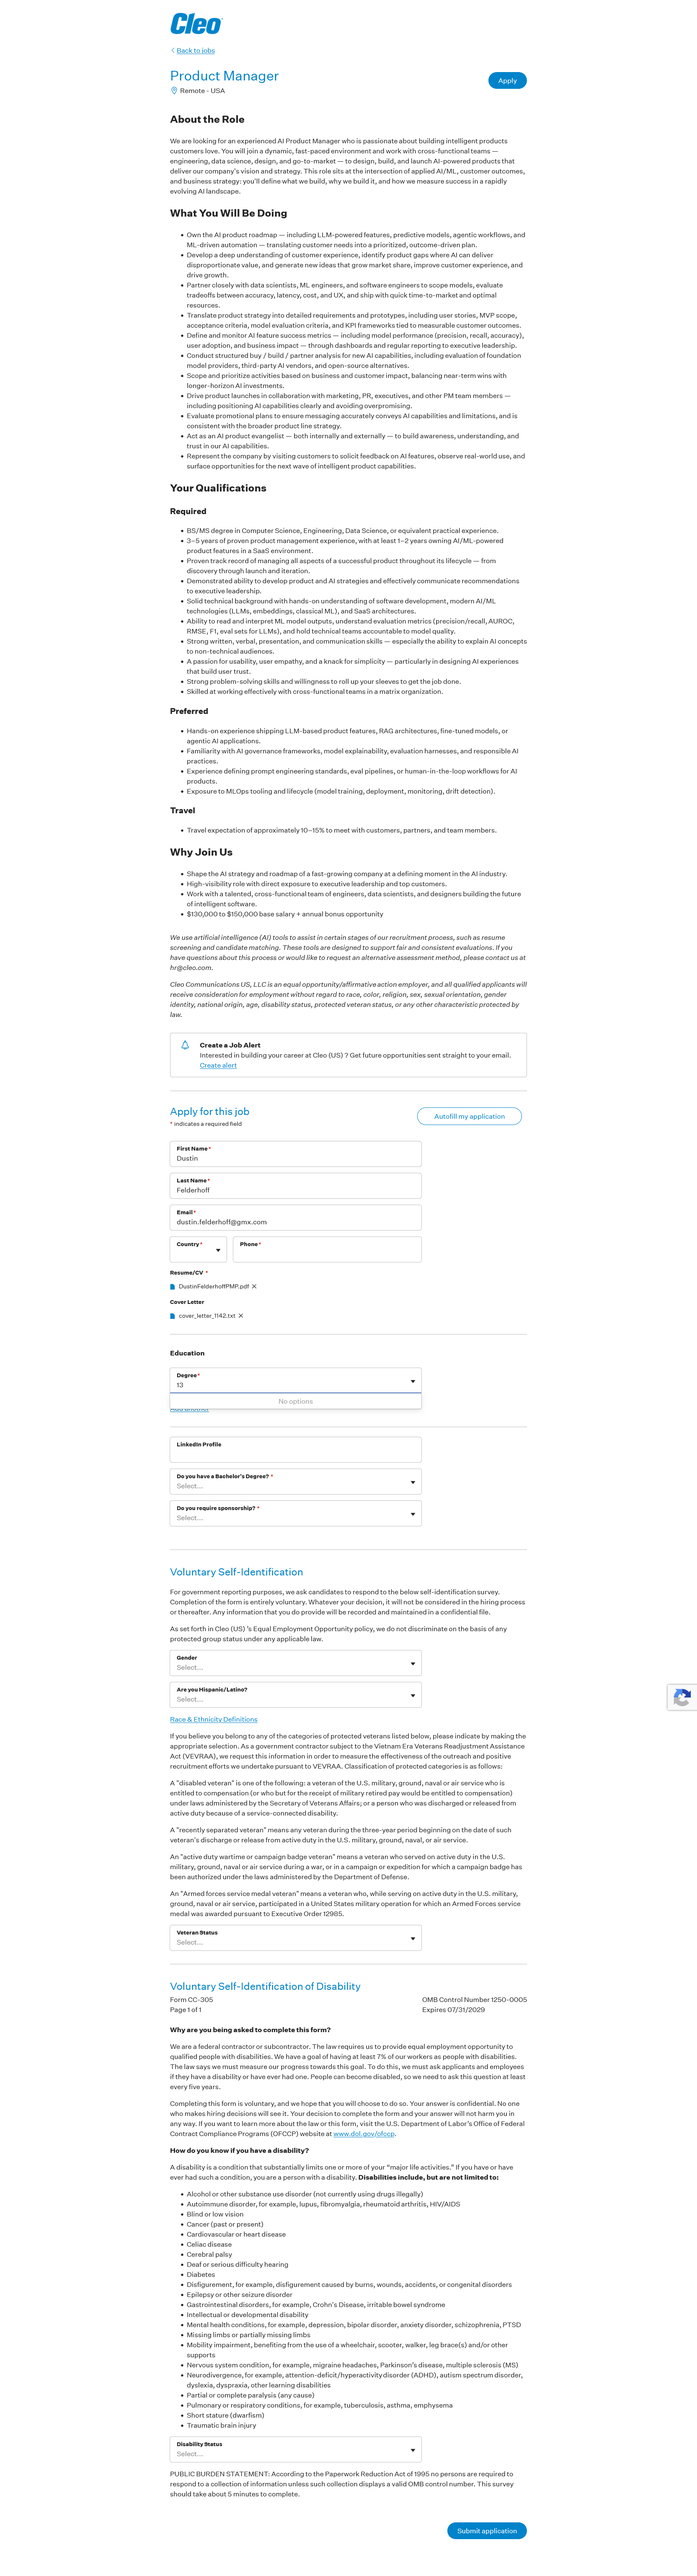
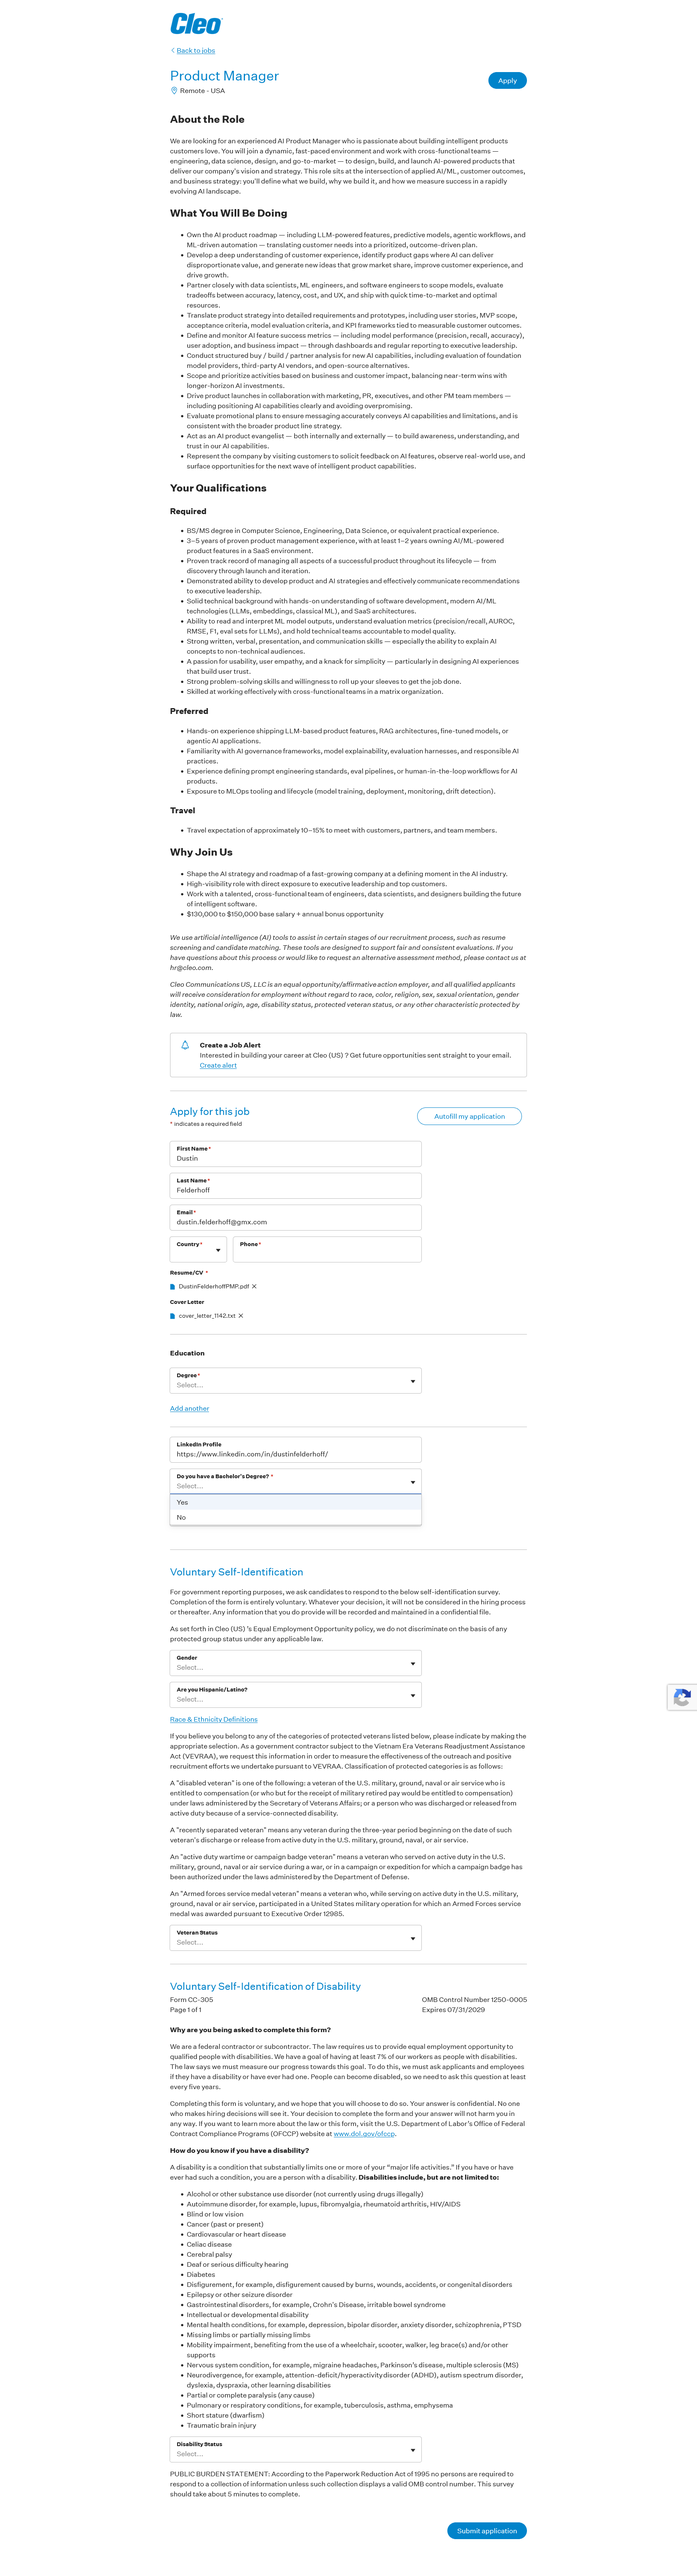
update dashboard

diff --git a/apply/job-dashboard.html b/apply/job-dashboard.html
@@ -68,7 +68,7 @@ a:hover{text-decoration:underline}
 <div id="dashboard" style="display:none">
 <header>
   <h1>Job-Application Monitor</h1>
-  <div class="sub">Auto-apply pipeline · generated 2026-09-01 11:01  · data: jobs.db + analytics.db + filled-form captures</div>
+  <div class="sub">Auto-apply pipeline · generated 2026-09-01 11:30  · data: jobs.db + analytics.db + filled-form captures</div>
 </header>
 <div class="wrap">
   <section class="card"><h2>Summary</h2><div class="grid"><div class="metric"><div class="label">Applied</div><div class="value">22</div></div><div class="metric"><div class="label">Interviews</div><div class="value">4</div></div><div class="metric"><div class="label">Interview requested</div><div class="value">0</div></div><div class="metric"><div class="label">Interview rate</div><div class="value">18.2%</div></div><div class="metric"><div class="label">Velocity</div><div class="value">2.8 apps/wk</div></div><div class="metric"><div class="label">Ready to apply</div><div class="value">231</div></div><div class="metric"><div class="label">Fillable (ATS)</div><div class="value">148</div></div><div class="metric"><div class="label">Has questions</div><div class="value">30</div></div></div></section>
@@ -157,23 +157,23 @@ a:hover{text-decoration:underline}
 <tr><td class='company'>Strive Health</td><td>Sr. Digital Product Manager</td><td>—</td><td class='src'>Recovered (rebuild)</td><td class='num'><span class="na" title="Unknown / indeterminate discovery source (e.g. recovered job) - no score fabricated">-</span></td><td><span class='badge badge-red'>rejected</span></td><td><span class='badge badge-gray'>No</span></td><td class='num'>56</td><td class='num'>62</td><td>2026-07-06</td><td class='proof'><span class="na">—</span></td><td class='num'><span class="na" title="no data">N/A</span></td><td class='num'><span class="na" title="no data">N/A</span></td><td class='num'><span class="na" title="no data">N/A</span></td><td class='num'>62</td></tr>
 <tr><td class='company'>Babylist</td><td>Staff Product Manager, Recommendations &amp;amp; Discovery</td><td>—</td><td class='src'>Recovered (rebuild)</td><td class='num'><span class="na" title="Unknown / indeterminate discovery source (e.g. recovered job) - no score fabricated">-</span></td><td><span class='badge badge-amber'>ready_to_apply</span></td><td><span class='badge badge-gray'>No</span></td><td class='num'>68</td><td class='num'>53</td><td>2026-07-06</td><td class='proof'><a class="proof-online" href="proof/job1147.png" target="_blank" rel="noopener">View proof (online)</a><br><small class="muted">PNG committed online; PDF + audit local</small><br><small class="muted">captured 2026-08-31 15:04</small></td><td class='num'><span style="color:#dc2626;font-weight:600" title="6/30 fields filled (6.0 required-weighted pts / 27.5 possible)">22</span></td><td class='num'><span style="color:#d97706;font-weight:600" title="11 identity field(s) assessed, 6 matched, 8.5 pts/11.0 · first_name:match; last_name:match; first_name:match; email:match; phone:match; location:match; location:empty(0.5); location:empty(0.5)">77</span></td><td class='num'><span class="na" title="no free-form written answer captured/assessed">N/A</span></td><td class='num'>53</td></tr>
 <tr><td class='company'>Samsara</td><td>Sr. Support Tools Product Manager</td><td>—</td><td class='src'>Recovered (rebuild)</td><td class='num'><span class="na" title="Unknown / indeterminate discovery source (e.g. recovered job) - no score fabricated">-</span></td><td><span class='badge badge-green'>applied</span></td><td><span class='badge badge-gray'>No</span></td><td class='num'>60</td><td class='num'>80</td><td>2026-07-06</td><td class='proof'><span class="na">—</span></td><td class='num'><span class="na" title="no data">N/A</span></td><td class='num'><span class="na" title="no data">N/A</span></td><td class='num'><span class="na" title="no data">N/A</span></td><td class='num'>80</td></tr>
-<tr><td class='company'>Cleo</td><td>Product Manager</td><td>—</td><td class='src'>Recovered (rebuild)</td><td class='num'><span class="na" title="Unknown / indeterminate discovery source (e.g. recovered job) - no score fabricated">-</span></td><td><span class='badge badge-amber'>ready_to_apply</span></td><td><span class='badge badge-gray'>No</span></td><td class='num'>75</td><td class='num'>78</td><td>2026-07-06</td><td class='proof'><a class="proof-online" href="proof/job1142.png" target="_blank" rel="noopener">View proof (online)</a><br><small class="muted">PNG committed online; PDF + audit local</small><br><small class="muted">captured 2026-08-31 10:47</small></td><td class='num'><span style="color:#dc2626;font-weight:600" title="6/17 fields filled (6.0 required-weighted pts / 14.5 possible)">41</span></td><td class='num'><span style="color:#d97706;font-weight:600" title="5 identity field(s) assessed, 3 matched, 4.0 pts/5.0 · first_name:match; last_name:match; email:match; phone:empty(0.5); linkedin:empty(0.5)">80</span></td><td class='num'><span class="na" title="no free-form written answer captured/assessed">N/A</span></td><td class='num'>78</td></tr>
+<tr><td class='company'>Cleo</td><td>Product Manager</td><td>—</td><td class='src'>Recovered (rebuild)</td><td class='num'><span class="na" title="Unknown / indeterminate discovery source (e.g. recovered job) - no score fabricated">-</span></td><td><span class='badge badge-amber'>ready_to_apply</span></td><td><span class='badge badge-gray'>No</span></td><td class='num'>75</td><td class='num'>78</td><td>2026-07-06</td><td class='proof'><a class="proof-online" href="proof/job1142.png" target="_blank" rel="noopener">View proof (online)</a><br><small class="muted">PNG committed online; PDF + audit local</small><br><small class="muted">captured 2026-09-01 11:10</small></td><td class='num'><span style="color:#dc2626;font-weight:600" title="4/17 fields filled (3.5 required-weighted pts / 14.5 possible)">24</span></td><td class='num'><span style="color:#059669;font-weight:600" title="5 identity field(s) assessed, 4 matched, 4.5 pts/5.0 · first_name:match; last_name:match; email:match; phone:empty(0.5); linkedin:match">90</span></td><td class='num'><span class="na" title="no free-form written answer captured/assessed">N/A</span></td><td class='num'>78</td></tr>
 <tr><td class='company'>futurefitai</td><td>Technical Product Manager FutureFit AI</td><td>—</td><td class='src'>Recovered (rebuild)</td><td class='num'><span class="na" title="Unknown / indeterminate discovery source (e.g. recovered job) - no score fabricated">-</span></td><td><span class='badge badge-red'>closed</span></td><td><span class='badge badge-gray'>No</span></td><td class='num'>66</td><td class='num'>64</td><td>2026-07-02</td><td class='proof'><a class="proof-online" href="proof/job1110.png" target="_blank" rel="noopener">View proof (online)</a><br><small class="muted">PNG committed online; PDF + audit local</small><br><small class="muted">captured 2026-08-30 08:33</small></td><td class='num'><span class="na" title="no visible form fields in capture">N/A</span></td><td class='num'><span class="na" title="no field maps to a known profile attribute">N/A</span></td><td class='num'><span class="na" title="no free-form written answer captured/assessed">N/A</span></td><td class='num'>64</td></tr>
 <tr><td class='company'>RevenueCat</td><td>Senior Product Manager, Analytics &amp; Experiments</td><td>—</td><td class='src'>Recovered (rebuild)</td><td class='num'><span class="na" title="Unknown / indeterminate discovery source (e.g. recovered job) - no score fabricated">-</span></td><td><span class='badge badge-red'>rejected</span></td><td><span class='badge badge-gray'>No</span></td><td class='num'>58</td><td class='num'>70</td><td>2026-06-29</td><td class='proof'><span class="na">—</span></td><td class='num'><span class="na" title="no data">N/A</span></td><td class='num'><span class="na" title="no data">N/A</span></td><td class='num'><span class="na" title="no data">N/A</span></td><td class='num'>70</td></tr></tbody>
     </table></div>
   </section>
-  <section class="card"><h2>Recent activity</h2><div class='act-row'><span class='badge badge-gray'>application_attempt</span> <strong>Cleo</strong> <span class='muted'>Product Manager</span> — in_progress <span class='muted pull'>2026-09-01 17:01</span></div>
+  <section class="card"><h2>Recent activity</h2><div class='act-row'><span class='badge badge-gray'>form_capture</span> <strong>Cleo</strong> <span class='muted'>Product Manager</span> — captured <span class='muted pull'>2026-09-01 17:10</span></div>
+<div class='act-row'><span class='badge badge-gray'>application_complete</span> <strong>Cleo</strong> <span class='muted'>Product Manager</span> — partial <span class='muted pull'>2026-09-01 17:10</span></div>
+<div class='act-row'><span class='badge badge-gray'>tick_summary</span> <strong>#1</strong> <span class='muted'></span> — ok <span class='muted pull'>2026-09-01 17:01</span></div>
+<div class='act-row'><span class='badge badge-gray'>prefill_launch</span> <strong>Cleo</strong> <span class='muted'>Product Manager</span> — ok <span class='muted pull'>2026-09-01 17:01</span></div>
+<div class='act-row'><span class='badge badge-gray'>application_attempt</span> <strong>Cleo</strong> <span class='muted'>Product Manager</span> — in_progress <span class='muted pull'>2026-09-01 17:01</span></div>
 <div class='act-row'><span class='badge badge-gray'>practice_fill</span> <strong>Sekai</strong> <span class='muted'>AI Product Manager (Remote)</span> — captured <span class='muted pull'>2026-09-01 17:00</span></div>
 <div class='act-row'><span class='badge badge-gray'>application_complete</span> <strong>Sekai</strong> <span class='muted'>AI Product Manager (Remote)</span> — partial <span class='muted pull'>2026-09-01 17:00</span></div>
 <div class='act-row'><span class='badge badge-gray'>practice_fill</span> <strong>Sekai</strong> <span class='muted'>AI Product Manager (Remote)</span> — in_progress <span class='muted pull'>2026-09-01 16:50</span></div>
 <div class='act-row'><span class='badge badge-gray'>application_attempt</span> <strong>Sekai</strong> <span class='muted'>AI Product Manager (Remote)</span> — in_progress <span class='muted pull'>2026-09-01 16:50</span></div>
 <div class='act-row'><span class='badge badge-gray'>tick_summary</span> <strong>Aledade</strong> <span class='muted'>Associate Technical Product Manager, Analytics</span> — ok <span class='muted pull'>2026-09-01 16:31</span></div>
 <div class='act-row'><span class='badge badge-gray'>tick_summary</span> <strong>#1</strong> <span class='muted'></span> — ok <span class='muted pull'>2026-09-01 16:31</span></div>
-<div class='act-row'><span class='badge badge-gray'>practice_fill</span> <strong>Hophr</strong> <span class='muted'>Hop - Senior Product Manager, Pharma Analytics Products</span> — captured <span class='muted pull'>2026-09-01 16:17</span></div>
-<div class='act-row'><span class='badge badge-gray'>application_complete</span> <strong>Hophr</strong> <span class='muted'>Hop - Senior Product Manager, Pharma Analytics Products</span> — awaiting_submit <span class='muted pull'>2026-09-01 16:16</span></div>
-<div class='act-row'><span class='badge badge-gray'>form_capture</span> <strong>Virtualitics</strong> <span class='muted'>Virtualitics, Inc Product Manager</span> — partial <span class='muted pull'>2026-09-01 16:13</span></div>
-<div class='act-row'><span class='badge badge-gray'>application_complete</span> <strong>Virtualitics</strong> <span class='muted'>Virtualitics, Inc Product Manager</span> — awaiting_submit <span class='muted pull'>2026-09-01 16:13</span></div>
-<div class='act-row'><span class='badge badge-gray'>practice_fill</span> <strong>Hophr</strong> <span class='muted'>Hop - Senior Product Manager, Pharma Analytics Products</span> — in_progress <span class='muted pull'>2026-09-01 16:10</span></div></section>
+<div class='act-row'><span class='badge badge-gray'>practice_fill</span> <strong>Hophr</strong> <span class='muted'>Hop - Senior Product Manager, Pharma Analytics Products</span> — captured <span class='muted pull'>2026-09-01 16:17</span></div></section>
   <p class="pager">Built by scripts/build_public_dashboard.py · proof captures are local files; only small PNGs are copied to the repo for online viewing.</p>
 </div>
 </div>
